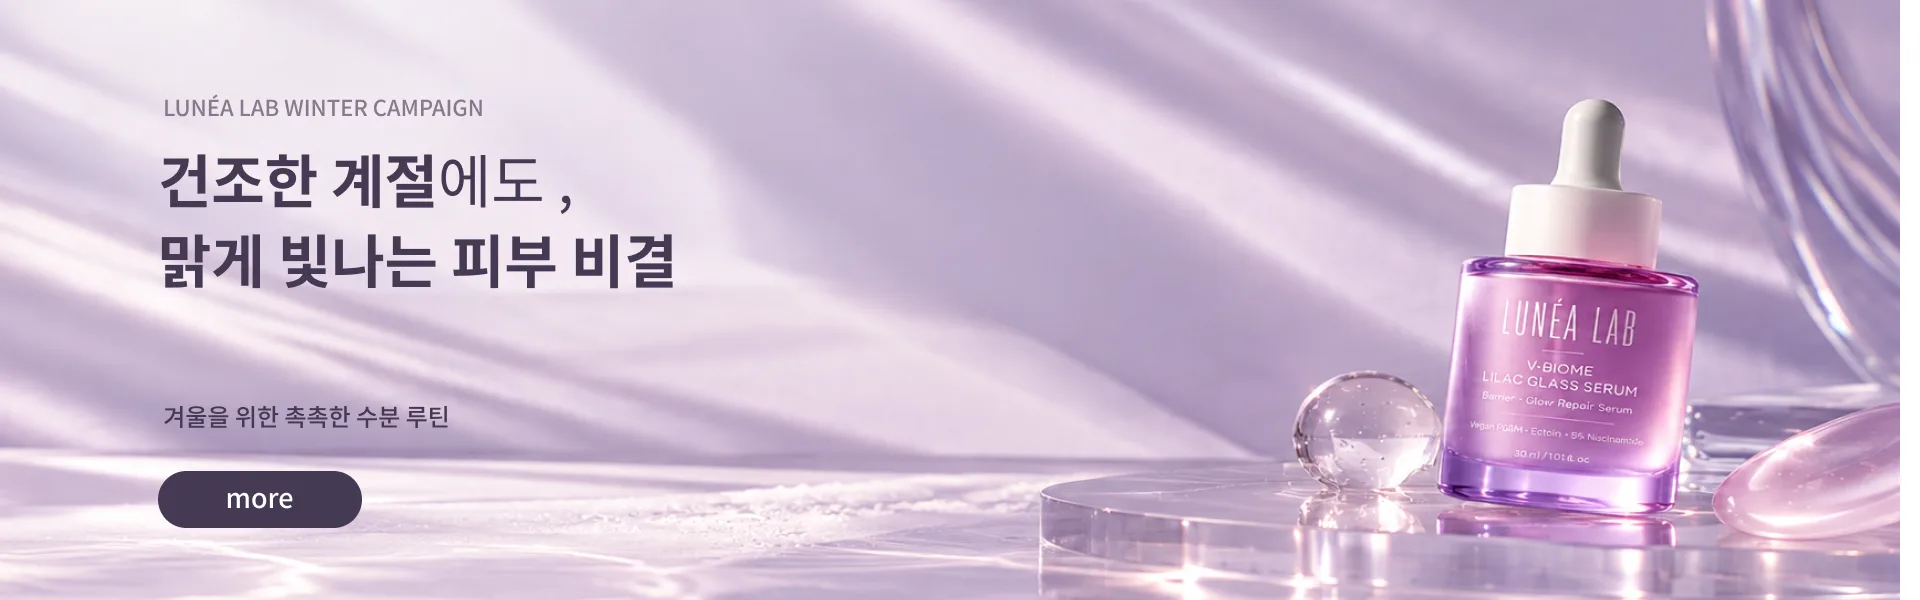
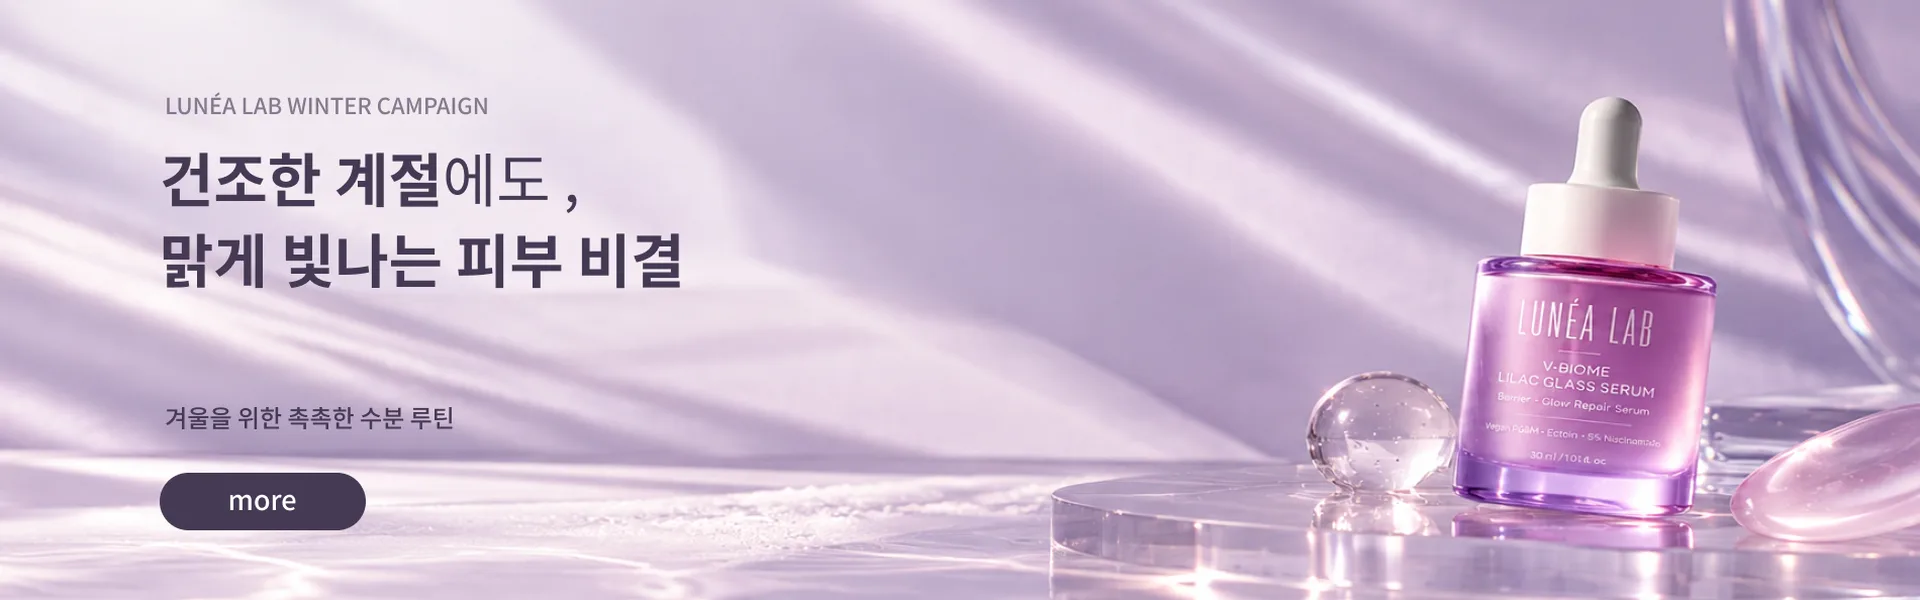
PC 메인 배너 오른쪽 흰 띠 제거
원본 PNG 오른쪽 20px이 흰색이라 잘린 것처럼 보였다. 흰 띠와 위아래 3px을 잘라
같은 비율로 1920×600에 맞췄다. 캐시 버전 20261023d.

Claude-Session: https://claude.ai/code/session_01DUtQAyfQZ1u4EKV2V1a9L8

diff --git a/design-babambi.html b/design-babambi.html
@@ -10,9 +10,9 @@
   <link rel="preconnect" href="https://cdn.jsdelivr.net" crossorigin />
   <link rel="stylesheet" href="https://cdn.jsdelivr.net/gh/orioncactus/pretendard@v1.3.9/dist/web/variable/pretendardvariable-dynamic-subset.min.css" />
   <link rel="stylesheet" href="https://fonts.googleapis.com/css2?family=Archivo:wdth,wght@75..112,400..700&family=JetBrains+Mono:wght@400;500&display=swap" />
-  <link rel="stylesheet" href="style.css?v=20261023c" />
-  <link rel="stylesheet" href="case.css?v=20261023c" />
-  <link rel="stylesheet" href="design.css?v=20261023c" />
+  <link rel="stylesheet" href="style.css?v=20261023d" />
+  <link rel="stylesheet" href="case.css?v=20261023d" />
+  <link rel="stylesheet" href="design.css?v=20261023d" />
 </head>
 <body class="case-page design-page">
   <header class="site-header is-visible" id="siteHeader">
@@ -74,10 +74,10 @@
   </main>
 
   <script src="https://cdn.jsdelivr.net/npm/lenis@1.1.13/dist/lenis.min.js"></script>
-  <script src="case.js?v=20261023c"></script>
-  <script src="topbtn.js?v=20261023c"></script>
-  <script src="menu.js?v=20261023c"></script>
-  <script src="design-data.js?v=20261023c"></script>
-  <script src="design.js?v=20261023c"></script>
+  <script src="case.js?v=20261023d"></script>
+  <script src="topbtn.js?v=20261023d"></script>
+  <script src="menu.js?v=20261023d"></script>
+  <script src="design-data.js?v=20261023d"></script>
+  <script src="design.js?v=20261023d"></script>
 </body>
 </html>

diff --git a/design-lunea.html b/design-lunea.html
@@ -10,9 +10,9 @@
   <link rel="preconnect" href="https://cdn.jsdelivr.net" crossorigin />
   <link rel="stylesheet" href="https://cdn.jsdelivr.net/gh/orioncactus/pretendard@v1.3.9/dist/web/variable/pretendardvariable-dynamic-subset.min.css" />
   <link rel="stylesheet" href="https://fonts.googleapis.com/css2?family=Archivo:wdth,wght@75..112,400..700&family=JetBrains+Mono:wght@400;500&display=swap" />
-  <link rel="stylesheet" href="style.css?v=20261023c" />
-  <link rel="stylesheet" href="case.css?v=20261023c" />
-  <link rel="stylesheet" href="design.css?v=20261023c" />
+  <link rel="stylesheet" href="style.css?v=20261023d" />
+  <link rel="stylesheet" href="case.css?v=20261023d" />
+  <link rel="stylesheet" href="design.css?v=20261023d" />
 </head>
 <body class="case-page design-page">
   <header class="site-header is-visible" id="siteHeader">
@@ -78,10 +78,10 @@
   </main>
 
   <script src="https://cdn.jsdelivr.net/npm/lenis@1.1.13/dist/lenis.min.js"></script>
-  <script src="case.js?v=20261023c"></script>
-  <script src="topbtn.js?v=20261023c"></script>
-  <script src="menu.js?v=20261023c"></script>
-  <script src="design-data.js?v=20261023c"></script>
-  <script src="design.js?v=20261023c"></script>
+  <script src="case.js?v=20261023d"></script>
+  <script src="topbtn.js?v=20261023d"></script>
+  <script src="menu.js?v=20261023d"></script>
+  <script src="design-data.js?v=20261023d"></script>
+  <script src="design.js?v=20261023d"></script>
 </body>
 </html>

diff --git a/design-modak.html b/design-modak.html
@@ -10,9 +10,9 @@
   <link rel="preconnect" href="https://cdn.jsdelivr.net" crossorigin />
   <link rel="stylesheet" href="https://cdn.jsdelivr.net/gh/orioncactus/pretendard@v1.3.9/dist/web/variable/pretendardvariable-dynamic-subset.min.css" />
   <link rel="stylesheet" href="https://fonts.googleapis.com/css2?family=Archivo:wdth,wght@75..112,400..700&family=JetBrains+Mono:wght@400;500&display=swap" />
-  <link rel="stylesheet" href="style.css?v=20261023c" />
-  <link rel="stylesheet" href="case.css?v=20261023c" />
-  <link rel="stylesheet" href="design.css?v=20261023c" />
+  <link rel="stylesheet" href="style.css?v=20261023d" />
+  <link rel="stylesheet" href="case.css?v=20261023d" />
+  <link rel="stylesheet" href="design.css?v=20261023d" />
 </head>
 <body class="case-page design-page">
   <header class="site-header is-visible" id="siteHeader">
@@ -95,10 +95,10 @@
   </main>
 
   <script src="https://cdn.jsdelivr.net/npm/lenis@1.1.13/dist/lenis.min.js"></script>
-  <script src="case.js?v=20261023c"></script>
-  <script src="topbtn.js?v=20261023c"></script>
-  <script src="menu.js?v=20261023c"></script>
-  <script src="design-data.js?v=20261023c"></script>
-  <script src="design.js?v=20261023c"></script>
+  <script src="case.js?v=20261023d"></script>
+  <script src="topbtn.js?v=20261023d"></script>
+  <script src="menu.js?v=20261023d"></script>
+  <script src="design-data.js?v=20261023d"></script>
+  <script src="design.js?v=20261023d"></script>
 </body>
 </html>

diff --git a/design.html b/design.html
@@ -10,9 +10,9 @@
   <link rel="preconnect" href="https://cdn.jsdelivr.net" crossorigin />
   <link rel="stylesheet" href="https://cdn.jsdelivr.net/gh/orioncactus/pretendard@v1.3.9/dist/web/variable/pretendardvariable-dynamic-subset.min.css" />
   <link rel="stylesheet" href="https://fonts.googleapis.com/css2?family=Archivo:wdth,wght@75..112,400..700&family=JetBrains+Mono:wght@400;500&display=swap" />
-  <link rel="stylesheet" href="style.css?v=20261023c" />
-  <link rel="stylesheet" href="case.css?v=20261023c" />
-  <link rel="stylesheet" href="design.css?v=20261023c" />
+  <link rel="stylesheet" href="style.css?v=20261023d" />
+  <link rel="stylesheet" href="case.css?v=20261023d" />
+  <link rel="stylesheet" href="design.css?v=20261023d" />
 </head>
 <body class="case-page design-page">
   <header class="site-header is-visible" id="siteHeader">
@@ -73,10 +73,10 @@
   </main>
 
   <script src="https://cdn.jsdelivr.net/npm/lenis@1.1.13/dist/lenis.min.js"></script>
-  <script src="case.js?v=20261023c"></script>
-  <script src="topbtn.js?v=20261023c"></script>
-  <script src="menu.js?v=20261023c"></script>
-  <script src="design-data.js?v=20261023c"></script>
-  <script src="design.js?v=20261023c"></script>
+  <script src="case.js?v=20261023d"></script>
+  <script src="topbtn.js?v=20261023d"></script>
+  <script src="menu.js?v=20261023d"></script>
+  <script src="design-data.js?v=20261023d"></script>
+  <script src="design.js?v=20261023d"></script>
 </body>
 </html>

diff --git a/index.html b/index.html
@@ -12,7 +12,7 @@
   <link rel="stylesheet" href="https://cdn.jsdelivr.net/gh/orioncactus/pretendard@v1.3.9/dist/web/variable/pretendardvariable-dynamic-subset.min.css" />
   <!-- Archivo = 디스플레이(그로테스크), JetBrains Mono = 메타/좌표. -->
   <link rel="stylesheet" href="https://fonts.googleapis.com/css2?family=Archivo:wdth,wght@75..112,400..700&family=JetBrains+Mono:wght@400;500&display=swap" />
-  <link rel="stylesheet" href="style.css?v=20261023c" />
+  <link rel="stylesheet" href="style.css?v=20261023d" />
 </head>
 <body>
   <header class="site-header" id="siteHeader">
@@ -358,11 +358,11 @@
   </main>
 
   <script src="https://cdn.jsdelivr.net/npm/lenis@1.1.13/dist/lenis.min.js"></script>
-  <script src="hero.js?v=20261023c"></script>
-  <script src="site.js?v=20261023c"></script>
-  <script src="topbtn.js?v=20261023c"></script>
-  <script src="menu.js?v=20261023c"></script>
-  <script src="mobile-window.js?v=20261023c"></script>
-  <script src="work-index.js?v=20261023c"></script>
+  <script src="hero.js?v=20261023d"></script>
+  <script src="site.js?v=20261023d"></script>
+  <script src="topbtn.js?v=20261023d"></script>
+  <script src="menu.js?v=20261023d"></script>
+  <script src="mobile-window.js?v=20261023d"></script>
+  <script src="work-index.js?v=20261023d"></script>
 </body>
 </html>

diff --git a/work-orderweb.html b/work-orderweb.html
@@ -10,8 +10,8 @@
   <link rel="preconnect" href="https://cdn.jsdelivr.net" crossorigin />
   <link rel="stylesheet" href="https://cdn.jsdelivr.net/gh/orioncactus/pretendard@v1.3.9/dist/web/variable/pretendardvariable-dynamic-subset.min.css" />
   <link rel="stylesheet" href="https://fonts.googleapis.com/css2?family=Archivo:wdth,wght@75..112,400..700&family=JetBrains+Mono:wght@400;500&display=swap" />
-  <link rel="stylesheet" href="style.css?v=20261023c" />
-  <link rel="stylesheet" href="case.css?v=20261023c" />
+  <link rel="stylesheet" href="style.css?v=20261023d" />
+  <link rel="stylesheet" href="case.css?v=20261023d" />
 </head>
 <body class="case-page">
   <header class="site-header is-visible" id="siteHeader">
@@ -204,9 +204,9 @@
   </main>
 
   <script src="https://cdn.jsdelivr.net/npm/lenis@1.1.13/dist/lenis.min.js"></script>
-  <script src="case.js?v=20261023c"></script>
-  <script src="topbtn.js?v=20261023c"></script>
-  <script src="menu.js?v=20261023c"></script>
-  <script src="mobile-window.js?v=20261023c"></script>
+  <script src="case.js?v=20261023d"></script>
+  <script src="topbtn.js?v=20261023d"></script>
+  <script src="menu.js?v=20261023d"></script>
+  <script src="mobile-window.js?v=20261023d"></script>
 </body>
 </html>

diff --git a/work-unsu.html b/work-unsu.html
@@ -10,8 +10,8 @@
   <link rel="preconnect" href="https://cdn.jsdelivr.net" crossorigin />
   <link rel="stylesheet" href="https://cdn.jsdelivr.net/gh/orioncactus/pretendard@v1.3.9/dist/web/variable/pretendardvariable-dynamic-subset.min.css" />
   <link rel="stylesheet" href="https://fonts.googleapis.com/css2?family=Archivo:wdth,wght@75..112,400..700&family=JetBrains+Mono:wght@400;500&family=Space+Grotesk:wght@500;700&family=IBM+Plex+Sans+KR:wght@400;500&family=Noto+Serif+KR:wght@500;700&display=swap" />
-  <link rel="stylesheet" href="style.css?v=20261023c" />
-  <link rel="stylesheet" href="case.css?v=20261023c" />
+  <link rel="stylesheet" href="style.css?v=20261023d" />
+  <link rel="stylesheet" href="case.css?v=20261023d" />
 </head>
 <body class="case-page">
   <header class="site-header is-visible" id="siteHeader">
@@ -299,8 +299,8 @@
   </main>
 
   <script src="https://cdn.jsdelivr.net/npm/lenis@1.1.13/dist/lenis.min.js"></script>
-  <script src="case.js?v=20261023c"></script>
-  <script src="topbtn.js?v=20261023c"></script>
-  <script src="menu.js?v=20261023c"></script>
+  <script src="case.js?v=20261023d"></script>
+  <script src="topbtn.js?v=20261023d"></script>
+  <script src="menu.js?v=20261023d"></script>
 </body>
 </html>

diff --git a/work-lucent.html b/work-lucent.html
@@ -10,8 +10,8 @@
   <link rel="preconnect" href="https://cdn.jsdelivr.net" crossorigin />
   <link rel="stylesheet" href="https://cdn.jsdelivr.net/gh/orioncactus/pretendard@v1.3.9/dist/web/variable/pretendardvariable-dynamic-subset.min.css" />
   <link rel="stylesheet" href="https://fonts.googleapis.com/css2?family=Archivo:wdth,wght@75..112,400..700&family=JetBrains+Mono:wght@400;500&family=EB+Garamond:wght@400;500&family=Noto+Serif+KR:wght@300;400;600&family=Noto+Sans+KR:wght@400;500&display=swap" />
-  <link rel="stylesheet" href="style.css?v=20261023c" />
-  <link rel="stylesheet" href="case.css?v=20261023c" />
+  <link rel="stylesheet" href="style.css?v=20261023d" />
+  <link rel="stylesheet" href="case.css?v=20261023d" />
 </head>
 <body class="case-page">
   <header class="site-header is-visible" id="siteHeader">
@@ -340,8 +340,8 @@
   </main>
 
   <script src="https://cdn.jsdelivr.net/npm/lenis@1.1.13/dist/lenis.min.js"></script>
-  <script src="case.js?v=20261023c"></script>
-  <script src="topbtn.js?v=20261023c"></script>
-  <script src="menu.js?v=20261023c"></script>
+  <script src="case.js?v=20261023d"></script>
+  <script src="topbtn.js?v=20261023d"></script>
+  <script src="menu.js?v=20261023d"></script>
 </body>
 </html>

diff --git a/work-13months.html b/work-13months.html
@@ -12,8 +12,8 @@
   <link rel="preload" as="video" href="assets/13months/main.mp4" type="video/mp4" fetchpriority="high" />
   <link rel="stylesheet" href="https://cdn.jsdelivr.net/gh/orioncactus/pretendard@v1.3.9/dist/web/variable/pretendardvariable-dynamic-subset.min.css" />
   <link rel="stylesheet" href="https://fonts.googleapis.com/css2?family=Archivo:wdth,wght@75..112,400..700&family=JetBrains+Mono:wght@400;500&family=Cormorant+Garamond:wght@400;600&display=swap" />
-  <link rel="stylesheet" href="style.css?v=20261023c" />
-  <link rel="stylesheet" href="case.css?v=20261023c" />
+  <link rel="stylesheet" href="style.css?v=20261023d" />
+  <link rel="stylesheet" href="case.css?v=20261023d" />
 </head>
 <body class="case-page">
   <header class="site-header is-visible" id="siteHeader">
@@ -313,8 +313,8 @@
   </main>
 
   <script src="https://cdn.jsdelivr.net/npm/lenis@1.1.13/dist/lenis.min.js"></script>
-  <script src="case.js?v=20261023c"></script>
-  <script src="topbtn.js?v=20261023c"></script>
-  <script src="menu.js?v=20261023c"></script>
+  <script src="case.js?v=20261023d"></script>
+  <script src="topbtn.js?v=20261023d"></script>
+  <script src="menu.js?v=20261023d"></script>
 </body>
 </html>

diff --git a/work-goyo.html b/work-goyo.html
@@ -10,8 +10,8 @@
   <link rel="preconnect" href="https://cdn.jsdelivr.net" crossorigin />
   <link rel="stylesheet" href="https://cdn.jsdelivr.net/gh/orioncactus/pretendard@v1.3.9/dist/web/variable/pretendardvariable-dynamic-subset.min.css" />
   <link rel="stylesheet" href="https://fonts.googleapis.com/css2?family=Archivo:wdth,wght@75..112,400..700&family=JetBrains+Mono:wght@400;500&family=Noto+Serif+KR:wght@400;600&family=Noto+Sans+KR:wght@400;500&display=swap" />
-  <link rel="stylesheet" href="style.css?v=20261023c" />
-  <link rel="stylesheet" href="case.css?v=20261023c" />
+  <link rel="stylesheet" href="style.css?v=20261023d" />
+  <link rel="stylesheet" href="case.css?v=20261023d" />
 </head>
 <body class="case-page">
   <header class="site-header is-visible" id="siteHeader">
@@ -393,8 +393,8 @@
   </main>
 
   <script src="https://cdn.jsdelivr.net/npm/lenis@1.1.13/dist/lenis.min.js"></script>
-  <script src="case.js?v=20261023c"></script>
-  <script src="topbtn.js?v=20261023c"></script>
-  <script src="menu.js?v=20261023c"></script>
+  <script src="case.js?v=20261023d"></script>
+  <script src="topbtn.js?v=20261023d"></script>
+  <script src="menu.js?v=20261023d"></script>
 </body>
 </html>

diff --git a/work-babambi.html b/work-babambi.html
@@ -10,8 +10,8 @@
   <link rel="preconnect" href="https://cdn.jsdelivr.net" crossorigin />
   <link rel="stylesheet" href="https://cdn.jsdelivr.net/gh/orioncactus/pretendard@v1.3.9/dist/web/variable/pretendardvariable-dynamic-subset.min.css" />
   <link rel="stylesheet" href="https://fonts.googleapis.com/css2?family=Archivo:wdth,wght@75..112,400..700&family=JetBrains+Mono:wght@400;500&display=swap" />
-  <link rel="stylesheet" href="style.css?v=20261023c" />
-  <link rel="stylesheet" href="case.css?v=20261023c" />
+  <link rel="stylesheet" href="style.css?v=20261023d" />
+  <link rel="stylesheet" href="case.css?v=20261023d" />
 </head>
 <body class="case-page">
   <header class="site-header is-visible" id="siteHeader">
@@ -404,8 +404,8 @@
   </main>
 
   <script src="https://cdn.jsdelivr.net/npm/lenis@1.1.13/dist/lenis.min.js"></script>
-  <script src="case.js?v=20261023c"></script>
-  <script src="topbtn.js?v=20261023c"></script>
-  <script src="menu.js?v=20261023c"></script>
+  <script src="case.js?v=20261023d"></script>
+  <script src="topbtn.js?v=20261023d"></script>
+  <script src="menu.js?v=20261023d"></script>
 </body>
 </html>

diff --git a/work-ditoland.html b/work-ditoland.html
@@ -10,8 +10,8 @@
   <link rel="preconnect" href="https://cdn.jsdelivr.net" crossorigin />
   <link rel="stylesheet" href="https://cdn.jsdelivr.net/gh/orioncactus/pretendard@v1.3.9/dist/web/variable/pretendardvariable-dynamic-subset.min.css" />
   <link rel="stylesheet" href="https://fonts.googleapis.com/css2?family=Archivo:wdth,wght@75..112,400..700&family=JetBrains+Mono:wght@400;500&display=swap" />
-  <link rel="stylesheet" href="style.css?v=20261023c" />
-  <link rel="stylesheet" href="case.css?v=20261023c" />
+  <link rel="stylesheet" href="style.css?v=20261023d" />
+  <link rel="stylesheet" href="case.css?v=20261023d" />
 </head>
 <body class="case-page">
   <header class="site-header is-visible" id="siteHeader">
@@ -206,8 +206,8 @@
   </main>
 
   <script src="https://cdn.jsdelivr.net/npm/lenis@1.1.13/dist/lenis.min.js"></script>
-  <script src="case.js?v=20261023c"></script>
-  <script src="topbtn.js?v=20261023c"></script>
-  <script src="menu.js?v=20261023c"></script>
+  <script src="case.js?v=20261023d"></script>
+  <script src="topbtn.js?v=20261023d"></script>
+  <script src="menu.js?v=20261023d"></script>
 </body>
 </html>
